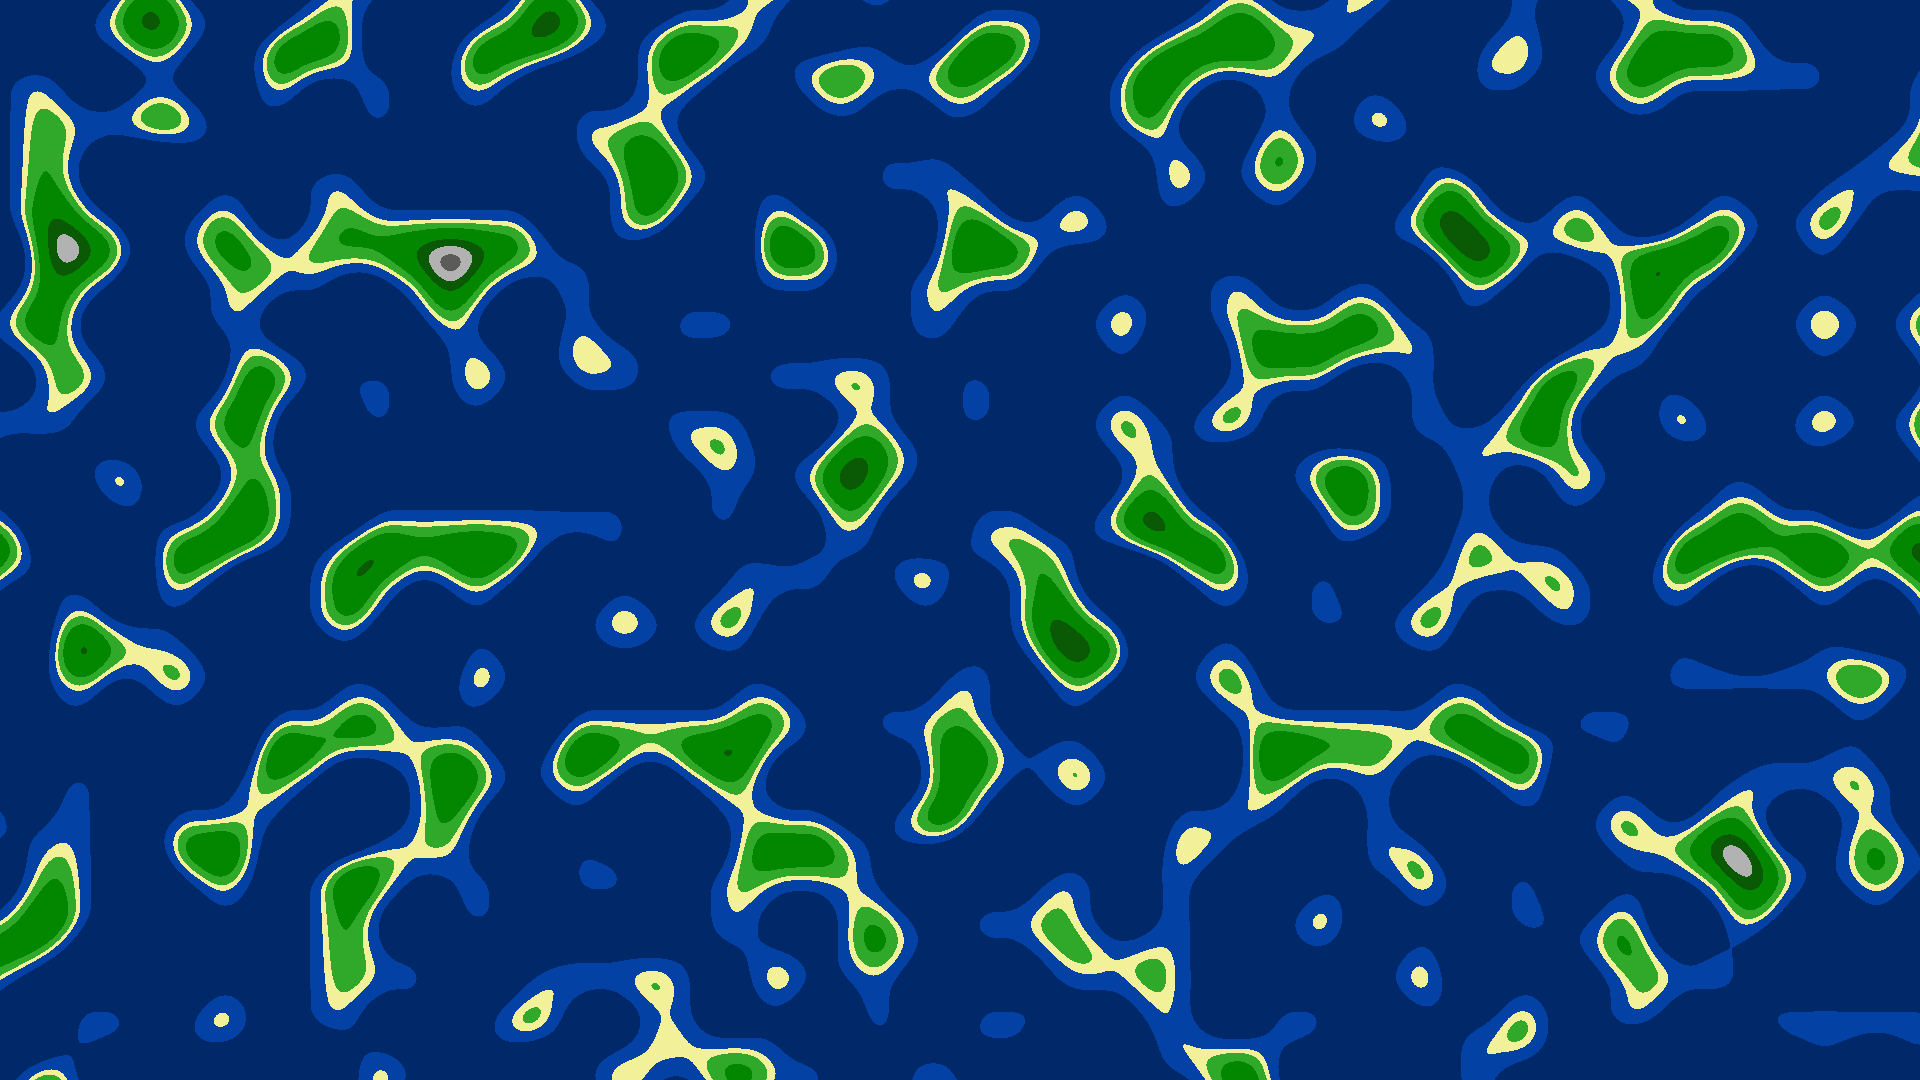
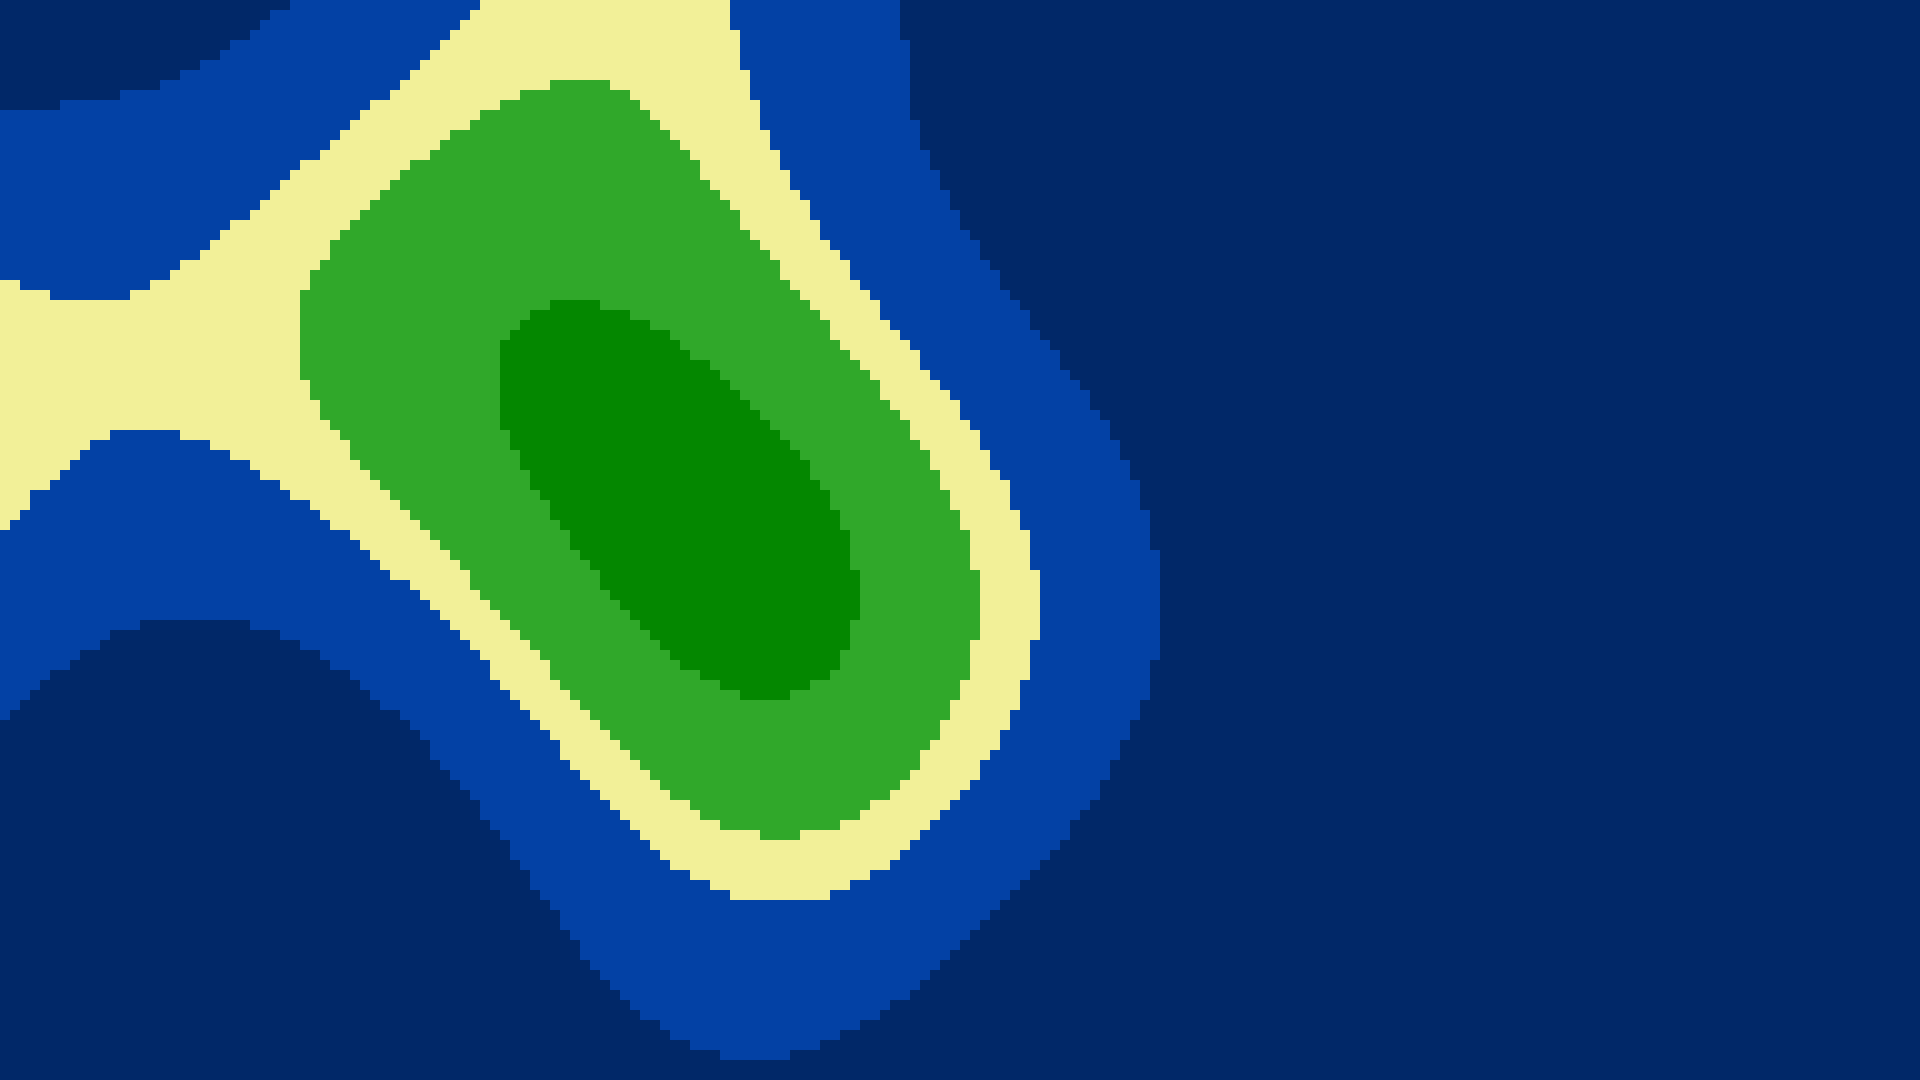
removed jframe

diff --git a/src/com/dylanscode/Main.java b/src/com/dylanscode/Main.java
@@ -1,24 +1,21 @@
 package com.dylanscode;
 
-import java.awt.Dimension;
-import java.awt.Graphics2D;
 import java.awt.image.BufferedImage;
 import java.io.File;
 import java.io.IOException;
 
 import javax.imageio.ImageIO;
-import javax.swing.JFrame;
 
 import com.dylanscode.terrain.TerrainGenerator;
 
 public class Main
 {
-	TerrainGenerator generator;
-
+	private TerrainGenerator generator;
+	private BufferedImage terrain;
 	public void start()
 	{
 		generator = new TerrainGenerator(1920, 1080);
-		BufferedImage terrain = null;
+		terrain = null;
 		try
 		{
 			terrain = generator.generateImage();
@@ -27,18 +24,6 @@ public class Main
 		} catch (IOException e)
 		{
 			e.printStackTrace();
-		}finally {
-			JFrame frame = new JFrame("Terrain");
-			frame.setMinimumSize(new Dimension(generator.width, generator.height));
-			frame.setMaximumSize(new Dimension(generator.width, generator.height));
-			frame.setPreferredSize(new Dimension(generator.width, generator.height));
-			frame.setSize(generator.width, generator.height);
-			frame.setResizable(false);
-			frame.setVisible(true);
-			frame.pack();
-			Graphics2D g = (Graphics2D) frame.getGraphics();
-			g.drawImage(terrain, 0, 0, null);
-			
 		}
 	}
 

diff --git a/src/com/dylanscode/terrain/TerrainGenerator.java b/src/com/dylanscode/terrain/TerrainGenerator.java
@@ -92,7 +92,7 @@ public class TerrainGenerator
 
 	private class Board
 	{
-		protected int scale = 1, rows, cols, increment = 1;
+		protected int scale = 10, rows, cols, increment = 1;
 		private NoiseGenerator generator;
 		private Cell[][] cells;
 		protected Board(int width, int height)
